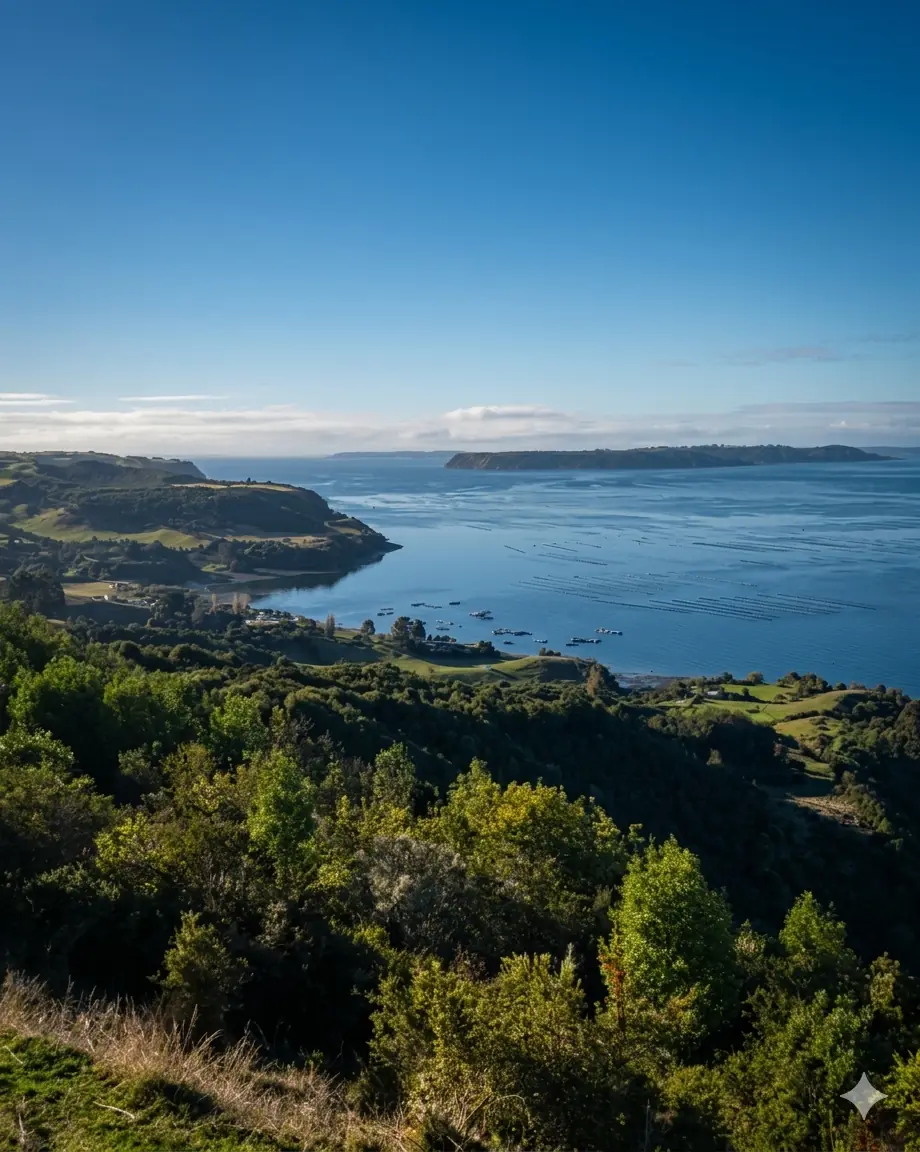
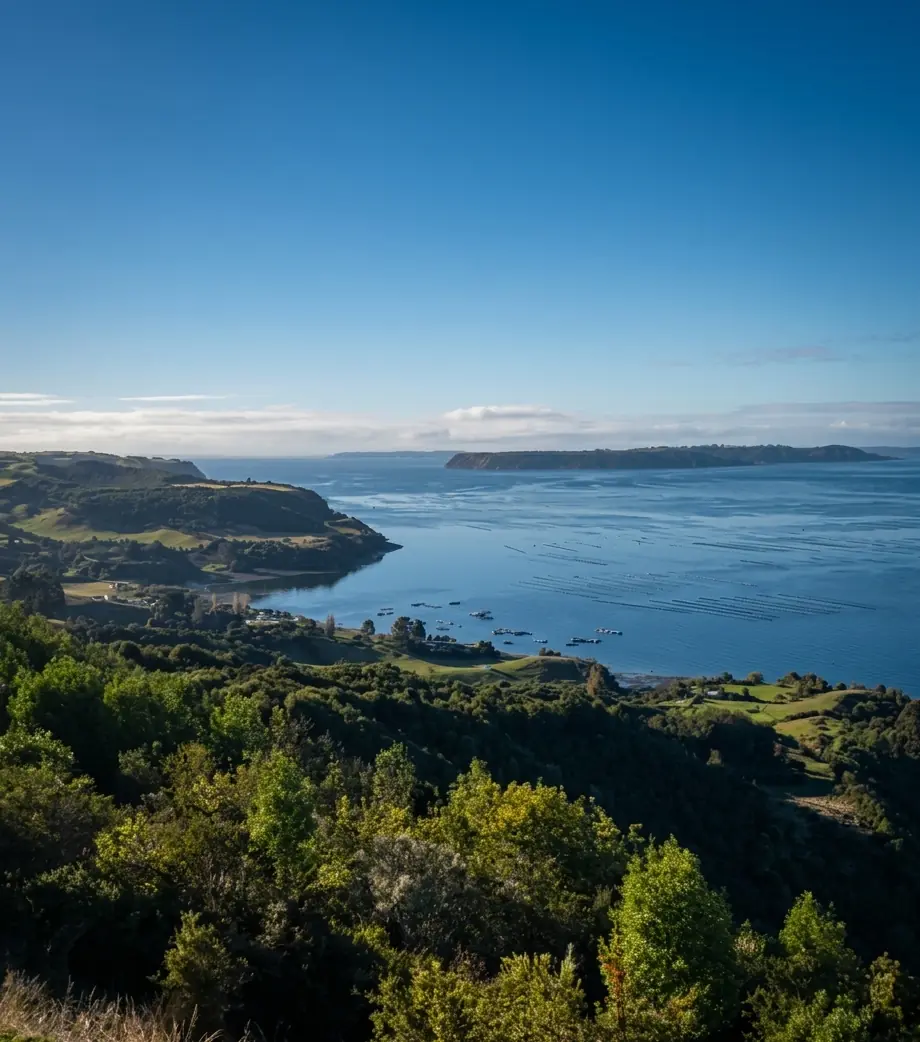
Quitar la marca de agua de las fotos
- Recorte de la franja inferior (9,5 %) de las fotos 01 a 07, donde estaba la
  marca en forma de rombo; la foto 00 no la tenía
- WebP regenerados y versión de imágenes w2 para que no se use la caché vieja

Claude-Session: https://claude.ai/code/session_016bMwbGpQrSPGA1PgcmBagg

diff --git a/index.html b/index.html
@@ -25,8 +25,8 @@
   <link rel="preload" as="image" fetchpriority="high" href="assets/brand/web/logo-descriptor.webp?v=w1">
   <!-- La foto del inicio se pide de inmediato, sin esperar al JavaScript -->
   <link rel="preload" as="image"
-        href="imagenes/web/00-800.webp?v=w1"
-        imagesrcset="imagenes/web/00-480.webp?v=w1 480w, imagenes/web/00-800.webp?v=w1 800w, imagenes/web/00-1200.webp?v=w1 1200w"
+        href="imagenes/web/00-800.webp?v=w2"
+        imagesrcset="imagenes/web/00-480.webp?v=w2 480w, imagenes/web/00-800.webp?v=w2 800w, imagenes/web/00-1200.webp?v=w2 1200w"
         imagesizes="(max-width: 900px) calc(100vw - 32px), 56vw">
   <link rel="preload" as="script" href="vendor/gsap-3.12.5.min.js">
   <link rel="preconnect" href="https://fonts.googleapis.com">
@@ -194,6 +194,6 @@
   <script src="vendor/gsap-3.12.5.min.js" defer></script>
   <!-- Intro animada SURVEC -->
   <script src="intro.js?v=w2" defer></script>
-  <script src="main.js?v=w5" defer></script>
+  <script src="main.js?v=w6" defer></script>
 </body>
 </html>

diff --git a/main.js b/main.js
@@ -2,7 +2,7 @@
 
 /* Fotos de las vistas en WebP, en 3 anchos: el navegador baja solo la que necesita
    segun el ancho de pantalla y la densidad del dispositivo. */
-const IMG_VERSION = 'w1';
+const IMG_VERSION = 'w2';
 const IMG_SIZES = '(max-width: 900px) calc(100vw - 32px), 56vw';
 const VIEW_IMAGES = { home: '00', servicios: '02', metodo: '07', proyectos: '06', contacto: '04' };
 
